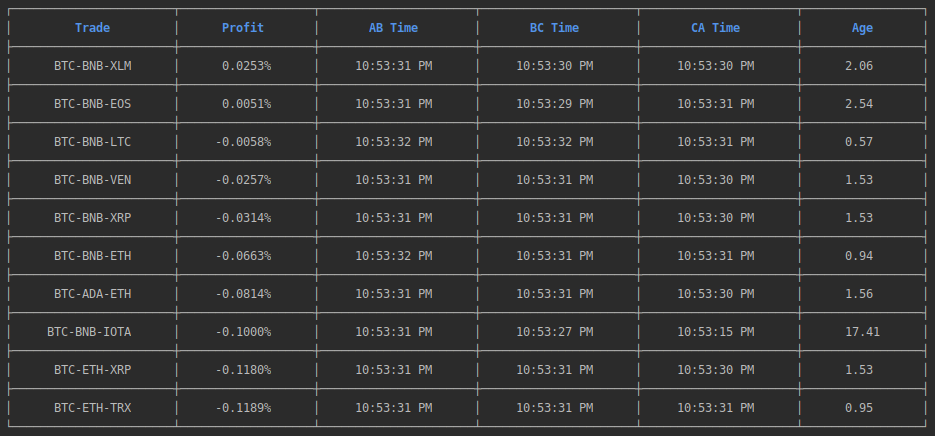
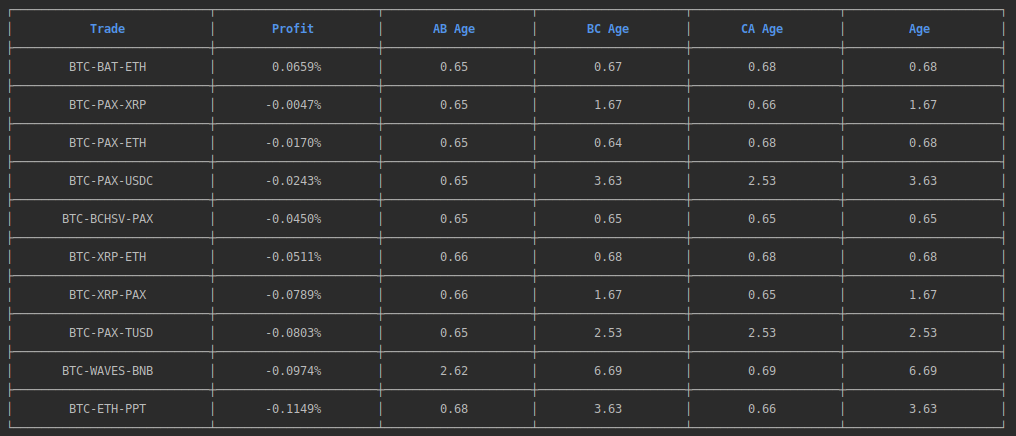
Update Readme
New HUD
Logger level
Execution strategies

Changed region(s): [[0.0, 0.0, 0.9925, 0.9839], [0.0, 0.805, 0.031, 0.8349]]

diff --git a/readme.md b/readme.md
@@ -7,26 +7,29 @@
 This app monitors the [Binance](https://www.binance.com) cryptocurrency exchange in search of triangle arbitrage opportunities.
 
 ## The HUD
-The HUD is the chart displayed above. It can be painted at a configurable interval to show snapshots of currently detected
-arbitrage opportunities. To disable the HUD, set `HUD_REFRESH_INTERVAL` to 0.
+The HUD is the chart displayed above. It is repainted after each calculation cycle to show snapshots of currently detected
+arbitrage opportunities. To disable the HUD, set `HUD.ENABLED` to false.
+
 
 ### Reading the HUD
 * **Trade** - Symbols involved in the triangle arbitrage. The first must be converted into the second, which must be converted into the third, and then back to the first.
 * **Profit** - Percent profit or loss from executing the triangle arbitrage. This does not include trading fees.
-* **AB Time** - Timestamp of the most recent market update for the ticker relating the first and second symbols in the arbitrage.
-* **BC Time** - Timestamp of the most recent market update for the ticker relating the second and third symbols in the arbitrage.
-* **CA Time** - Timestamp of the most recent market update for the ticker relating the third and first symbols in the arbitrage.
+* **AB Age** - Time in seconds since the most recent update of the market ticker relating the first and second symbols in the arbitrage.
+* **BC Age** - Time in seconds since the most recent update of the market ticker relating the second and third symbols in the arbitrage.
+* **CA Age** - Time in seconds since the most recent update of the market ticker relating the third and first symbols in the arbitrage.
 * **Age** - Time in seconds since the least recently updated market ticker involved in the triangle arbitrage.
 
 
 ## Getting Started
 These instructions will get a copy of the project up and running on your local machine for development and testing purposes.
 
+
 ### Install Prerequisites
 The following dependencies are recommended to run an instance:
 
 1. **NodeJS** - 11.8.0
 2. **Npm** - 6.7.0
+
 
 ### Obtain the Codebase
 * Clone from github
@@ -35,10 +38,12 @@ The following dependencies are recommended to run an instance:
     ```
 * Download a zip of the [latest release](https://github.com/bmino/binance-triangle-arbitrage/releases/latest)
 
+
 ### Configuration
 All configuration is done inside the `/config` directory.
 To setup your configuration for the first time, duplicate the `config.js.example` file and remove the ".example" extension.
 This process must be done before deploying the app for the first time and redone after each major version update where the configuration has changed.
+
 
 ### Deployment
 
@@ -54,10 +59,30 @@ This process must be done before deploying the app for the first time and redone
     ```
 
 
+## Execution strategies
+There are two different methods of executing an identified triangle arbitrage opportunity.
+
+* **Linear** - Three trades are executed sequentially with each being initiated after the first has completed.
+    
+    This is easiest to implement and has no special requirements.
+    
+* **Parallel** - Three trades are executed in tandem with each being initiated at the same time
+
+    This requires `TRADING.WHITELIST` to contain symbols that will be considered for the three symbols.
+    Because all trades are executed synchronously, you must hold a balance of every symbol in the whitelist.
+    The balance of each symbol should be equivalent or greater than `INVESTMENT.MAX` in terms of the base symbol.
+
+
 ## Logging
 All logs are stored in the `/logs` directory.
+
 * **performance.log** - Data about performance and speed.
 * **execution.log** - Market interactions and profits.
+
+To change the log level, set an environment variable named `LOG_LEVEL`
+```
+LOG_LEVEL=debug
+```
 
 
 ## Authors
